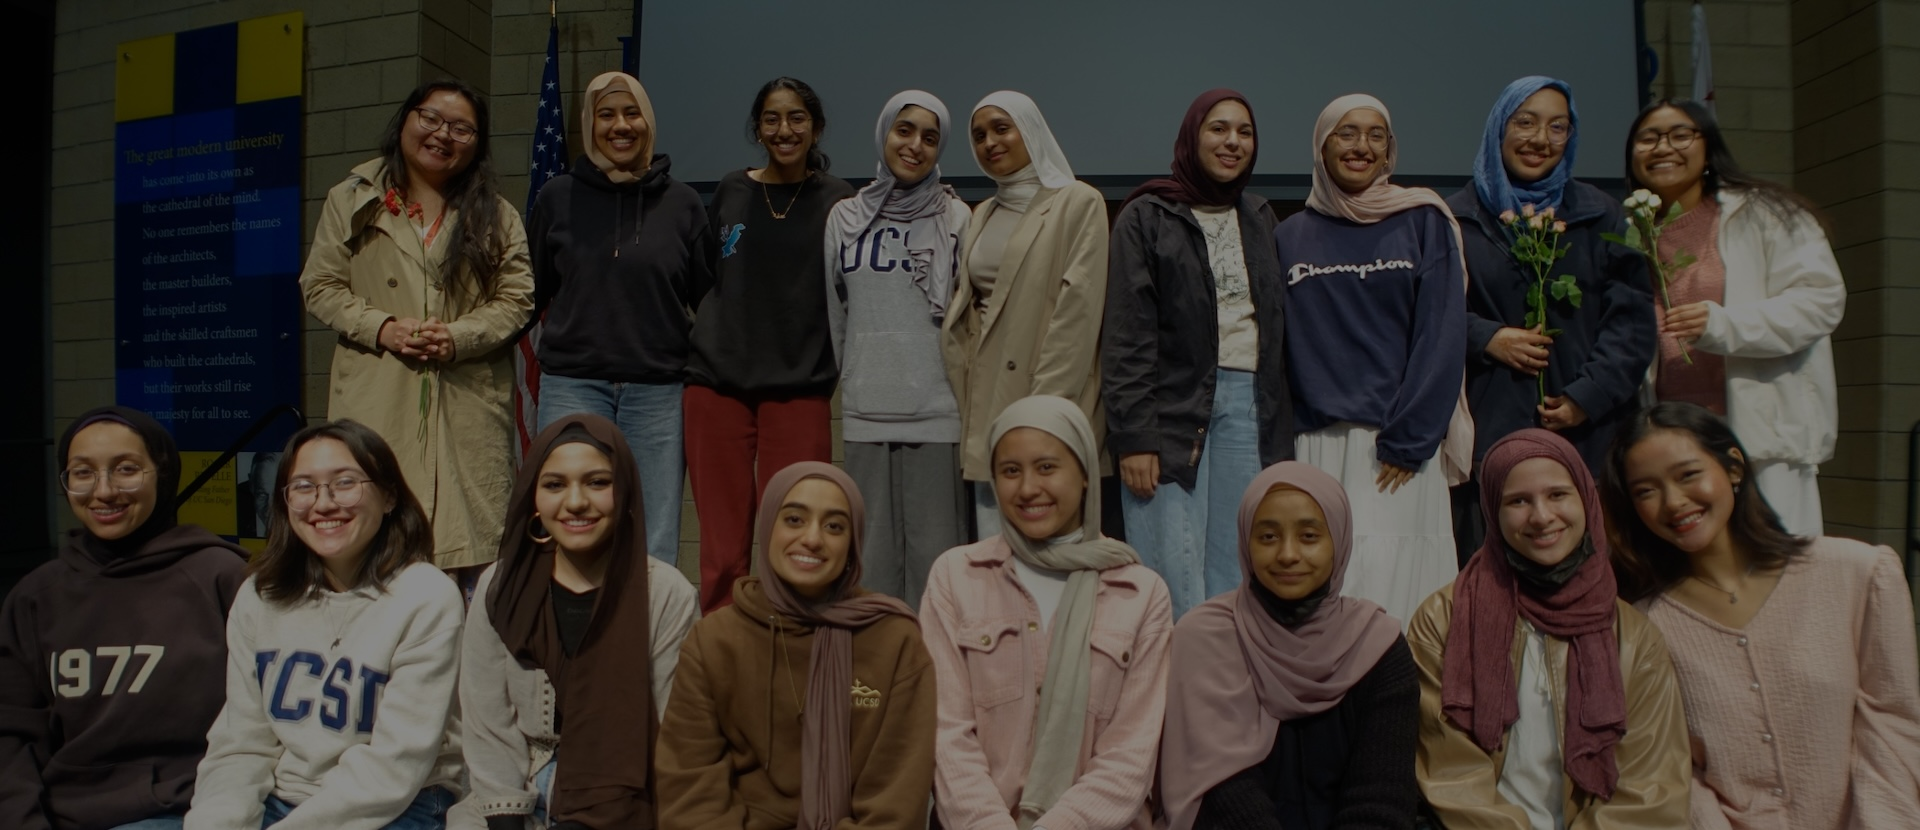
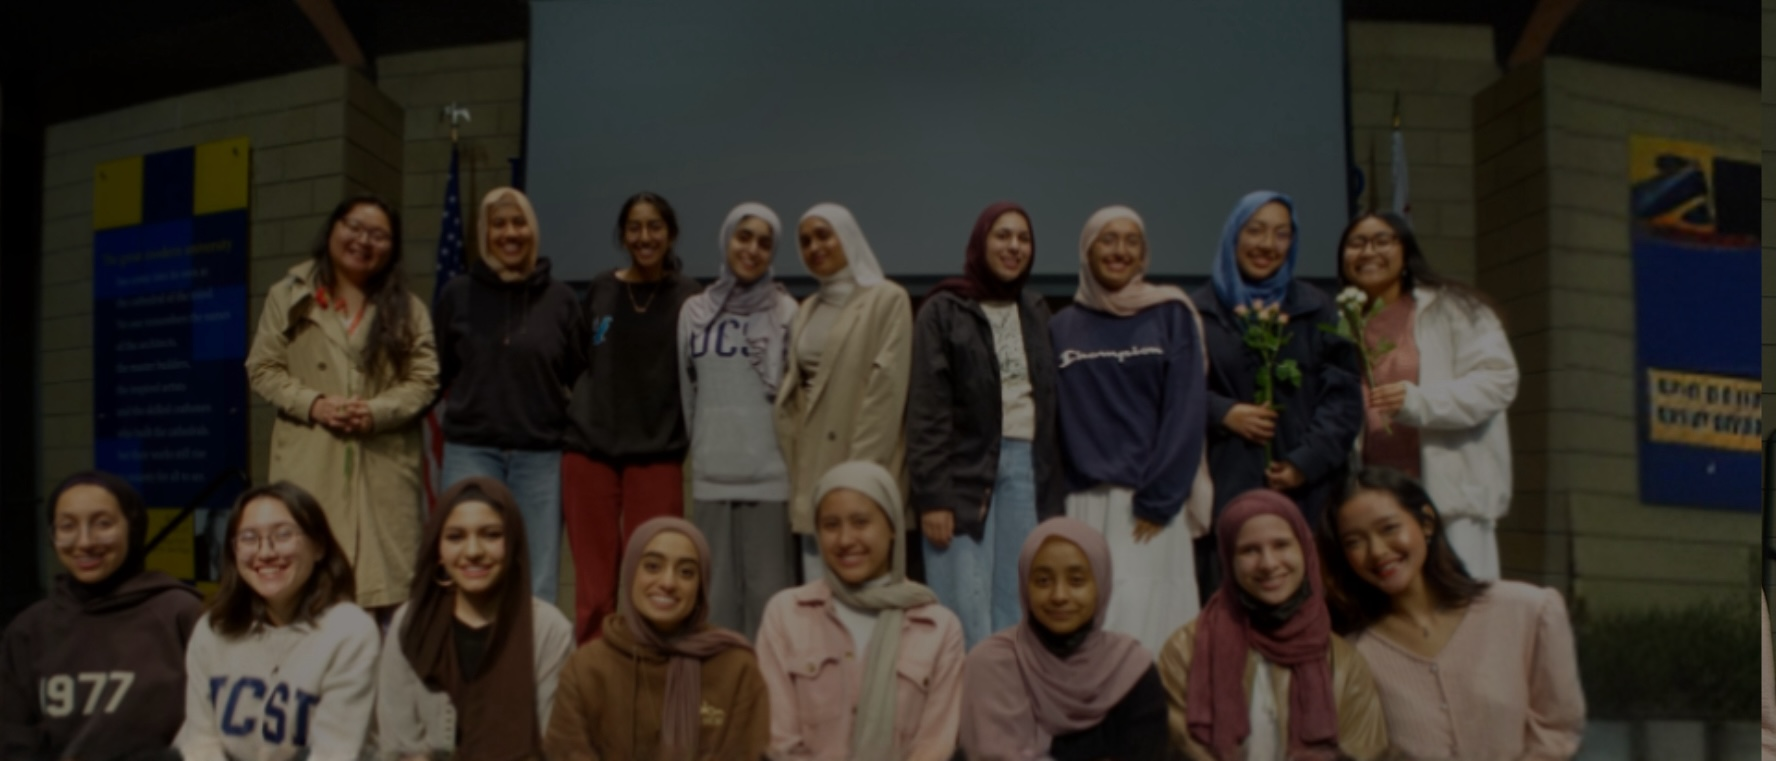
new slideshow

diff --git a/main_files/index.html b/main_files/index.html
@@ -307,11 +307,36 @@
                                 </div>
                             </div>
                         </div>
+
+                        <div class="owl-item" style="width: 1618px">
+                            <div class="hero-section item">
+                                <!-- <img src="./hero-img-back-1.jpg" alt="hero-img" class="hero-img-style" /> -->
+                                <!-- <img src="./jip.jpeg" alt="hero-img" class="hero-img-style" /> -->
+                                <img src="./banqe.jpg" alt="hero-img" class="hero-img-style" />
+                                <div class="container">
+                                    <div class="row">
+                                        <div class="col-lg-6">
+                                            <div class="hero-text">
+                                                <h1>Muslim Student Association at UCSD</h1>
+                                                <p>
+                                                    Your one-stop shop for Islamic growth, self-development, and all-around great time while you're at UC San Diego.
+                                                </p>
+                                                <a href="https://www.instagram.com/direct/t/110472100346514" class="btn">DM to Join Chats!</a>
+                                            </div>
+                                        </div>
+                                        <div class="col-lg-6">
+                                            <div class="hero-img">
+                                                <img src="./hero-img-1.png" alt="hero-img" />
+                                            </div>
+                                        </div>
+                                    </div>
+                                </div>
+                            </div></div>
                
                 <div class="owl-item cloned" style="width: 1618px">
                     <div class="hero-section item">
                         <!-- <img src="./hero-img-back-2.jpg" alt="hero-img" class="hero-img-style" /> -->
-                        <img src="./sispic.jpeg" alt="hero-img" class="hero-img-style" />
+                        <img src="./sispic4.png" alt="hero-img" class="hero-img-style" />
                         <div class="container">
                             <div class="row">
                                 <div class="col-lg-6">
